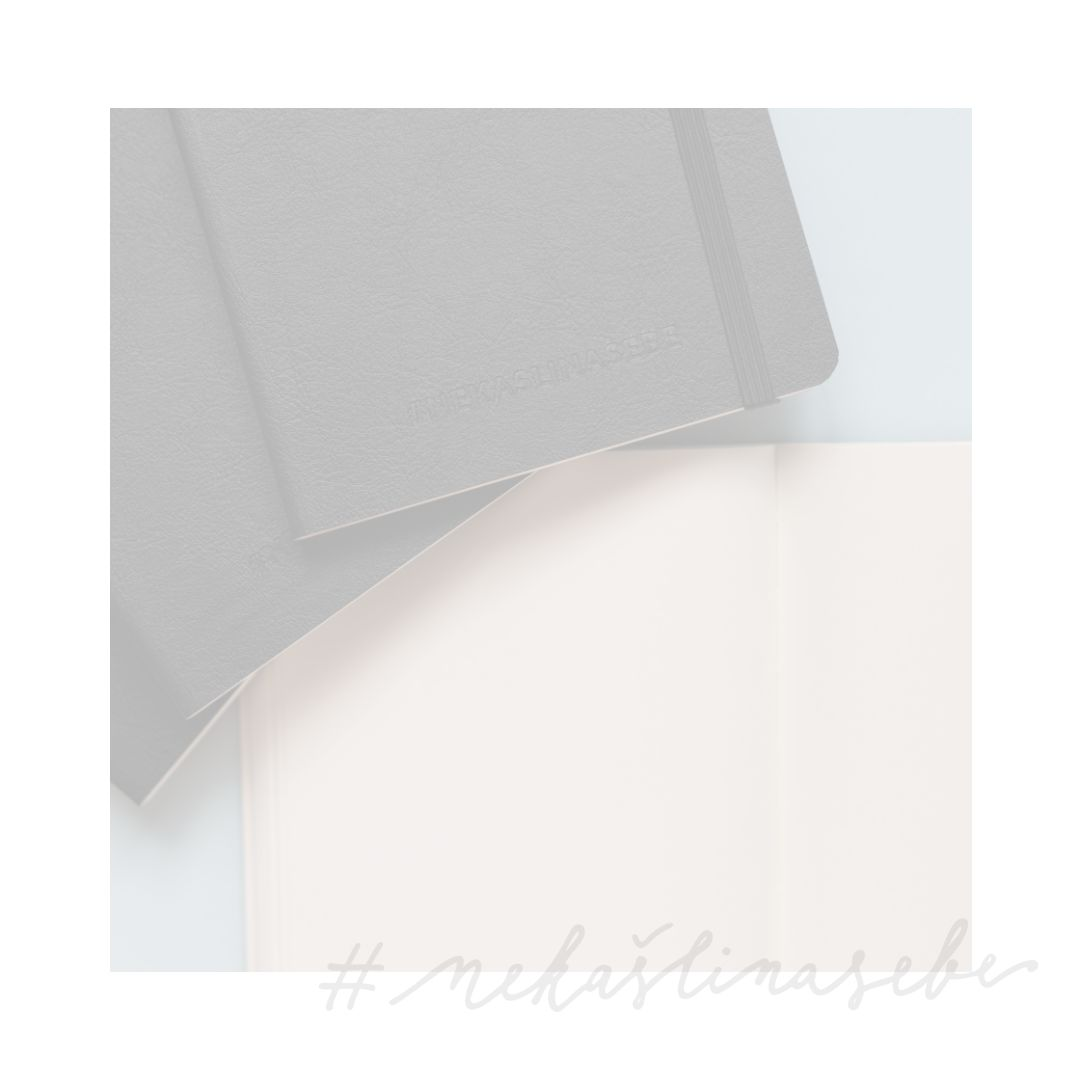
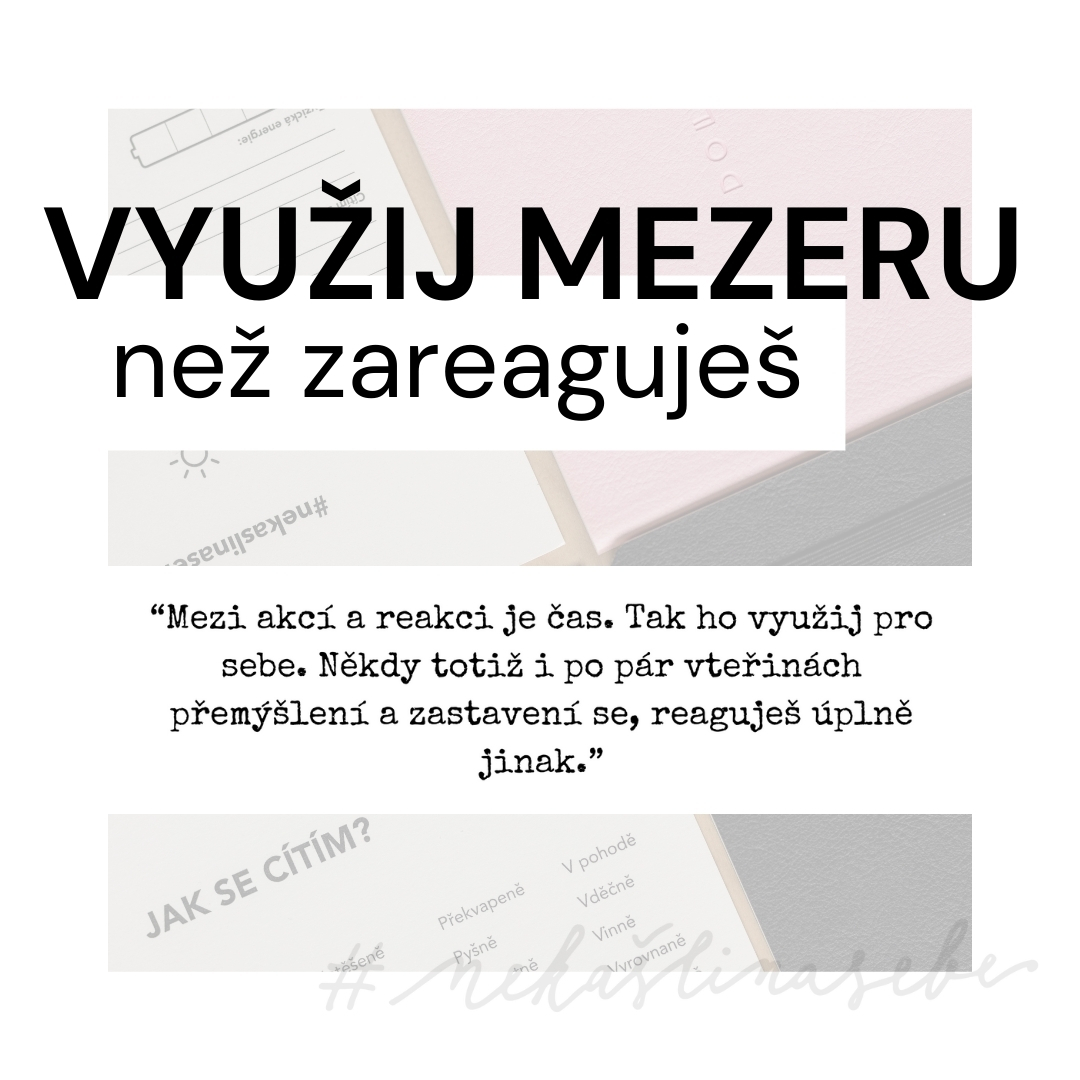
tip4

diff --git a/tips/24-13/tip4.html b/tips/24-13/tip4.html
@@ -80,7 +80,12 @@
         <div class="row mb-8 align-items-center">
           <div class="col-md-8,9" data-aos="fade-up">
             <h2>4.tip #nekaslinasebe</h2>
-            <p>Tip tady ještě není. </p>
+            <p>Emoce nám někdy dávají pěkně zabrat. Nebo se mýlím? Pojďme se dnes podívat na to, jak s nimi můžeme
+              jednoduše pracovat. Někdy na emoci ihned reagujeme. Jsme nevrlí na ostatní. Reagujeme podrážděně nebo na
+              druhého vyjedeme. U sebe samotných můžeme mít tendenci se emoci či nepříjemného pocitu vyhnout nebo se jím
+              nechat pohltit. Prostě emoce raději nemít. Dneska si připomene jednu důležitou věc. <b>Mezi akcí a reakcí
+                je čas. Tak ho využij pro sebe. Někdy i po pár vteřinách přemýšlení se a zastavení se, reaguješ úplně
+                jinak.</b> </p>
           </div>
         </div>
       </div>
@@ -97,15 +102,18 @@
                 <p class="mb-4"><span class="text-muted">Pokud máš:</span></p>
 
                 <div class="mb-5">
-                  <p><b>1 minutku</b>:</p>
-                  <p><b>5 minut</b>:</p>
-                  <p><b>15 minut</b>:</p>
+                  <p><b>1 minutku</b>: Možná dnes přijde situace, kdy zareaguješ podrážděně nebo příliš rychle. Zkus ji
+                    zachytit a jen si v hlavě říct: <b>Stop! Nadechni se a vydechni se.</b></p>
+                  <p><b>5 minut</b>: Vyzkoušej jednu z technik, kterou vidíš na obrázku.</p>
+                  <p><b>15 minut</b>: Proč jsem měl/a tendenci reagovat podrážděně? Co je doopravdy za mnou
+                    podrážděností, nevrlostí skrývá (emoce, spánek, přehlcenost, moc práce)?</b></p>
                 </div>
               </div>
             </div>
           </div>
           <div class="col-md-12 ml-auto mt-3">
-            <p><b>PS:</b></p>
+            <p><b>PS: Buďme na sebe (nejen) dnes laskaví.</b> Zkritizovat za nevhodnou reakci se umíme moc dobře.
+              Proto k tomu zkus dnes přistoupit z druhé strany a opečuj sebe. Jsem v tom s tebou, Terka.</b></p>
           </div>
           <div class="col-md-12 ml-auto mt-3">
             <p> Vše, co tu vidíš, děláme <b>zadarmo</b>. Kdybys nás chtěl/a podpořit, budeme rádi, když mrkneš na naše
